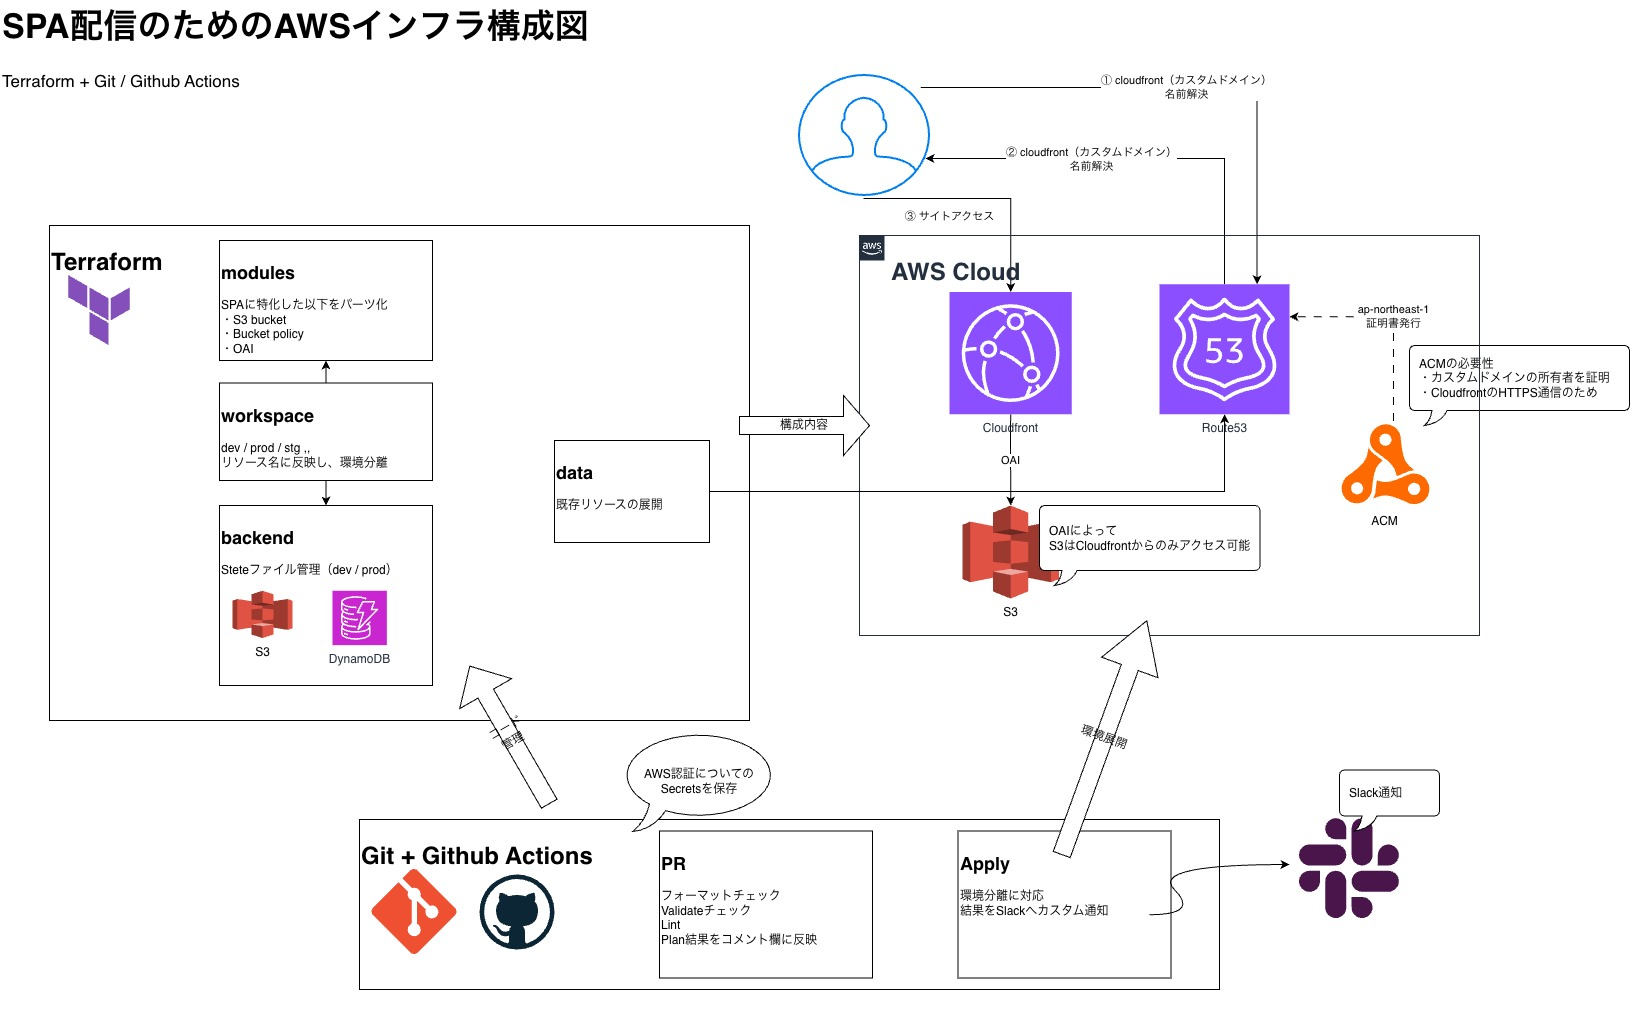
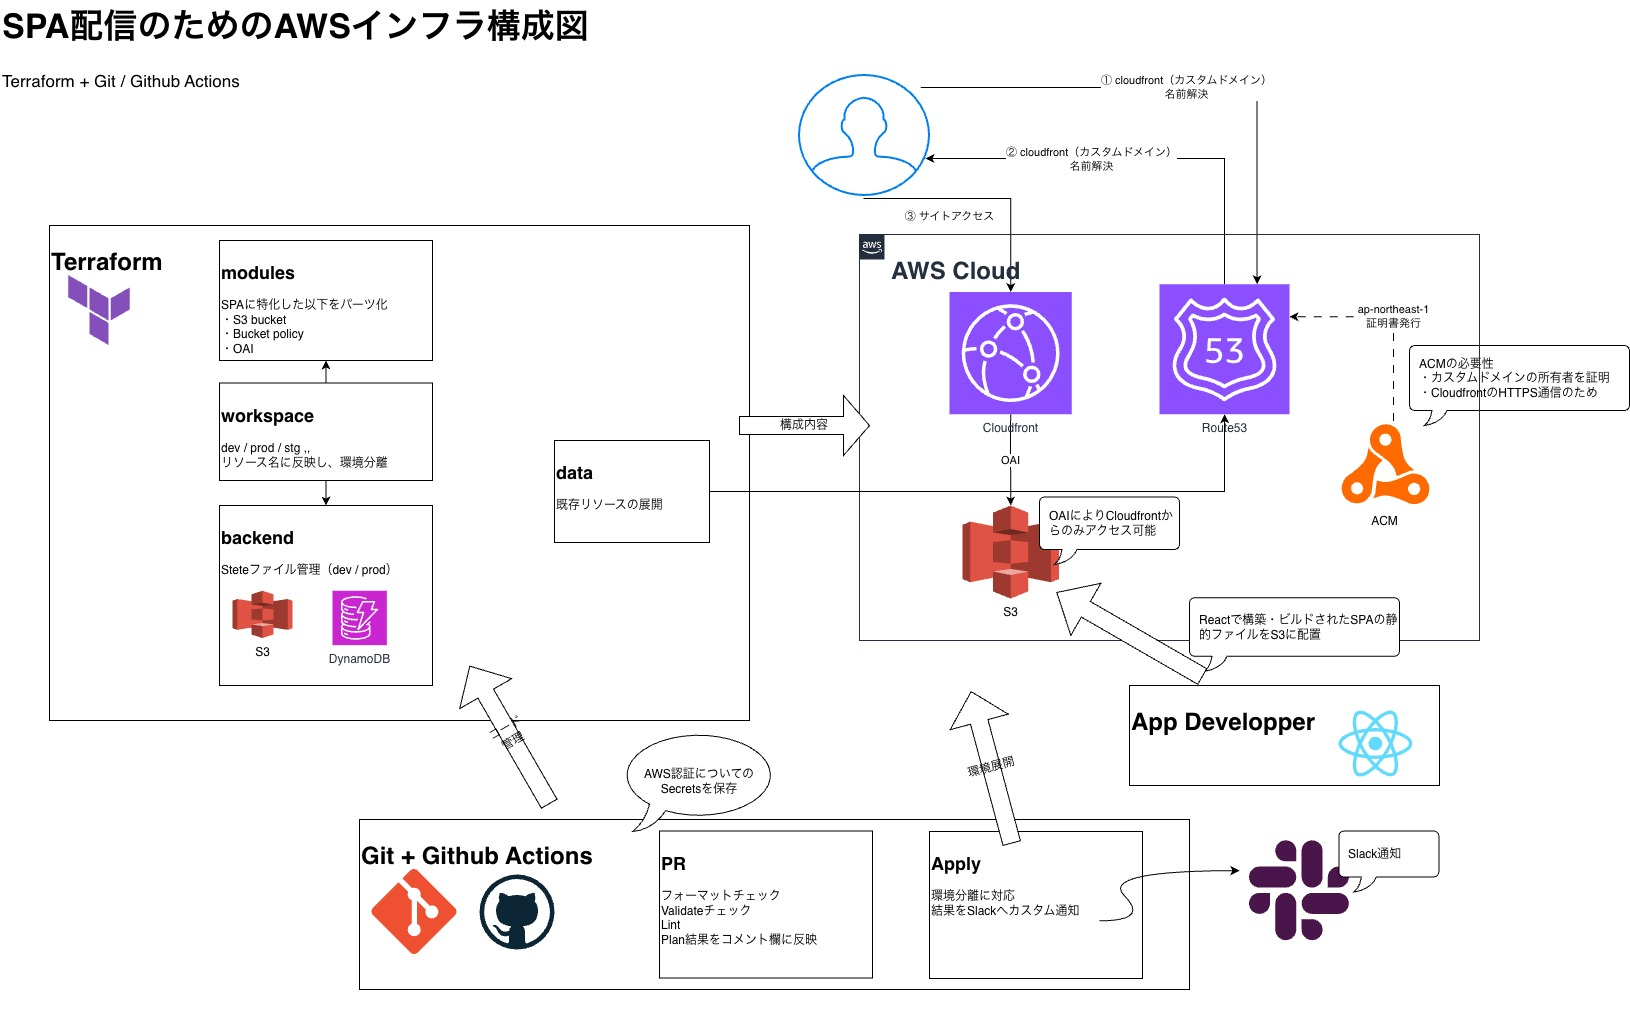
update

diff --git a/docs/projects/terraform-spasmall.md b/docs/projects/terraform-spasmall.md
@@ -4,7 +4,9 @@ layout: default
 
 # Terraform × CloudFront × S3 × SPA構成
 
-このプロジェクトは、Terraformで構築された CloudFront × S3 による静的SPAホスティング構成です。セキュアなOAI連携、環境分離、CI/CD連携を前提にした“語れる構成”であり、将来的な拡張にも耐えるベース設計となっています。
+このプロジェクトは、Terraformで構築された CloudFront × S3 による静的SPAホスティング構成です。  
+SPA配信という明確な目的に対して、技術者視点で設計された“要件定義ベースの構成図”であり、セキュアなOAI連携、環境分離、CI/CD連携を前提にした“語れる構成”です。  
+将来的な拡張にも耐えるベース設計として、ポートフォリオの中核を担う構成となっています。
 
 [← 前のページに戻る](/docs/aws-hands-on.html)
 
@@ -14,15 +16,19 @@ layout: default
 
 ![Terraform概要]({{ site.baseurl }}/images/SPA_simple_Structure.jpg)
 
+---
+
 ## 🧠 構成コンセプト
 
-この構成は「語れる構成」から「任せられる構成」へ進化するためのベースです。小粒ながら、以下のような思想が込められています：
+この構成は「語れる構成」から「任せられる構成」へ進化するためのベースです。  
+小粒ながら、以下のような思想が込められています：
 
 - ✅ **再利用可能なモジュール設計**（SPA/LP案件に対応）
 - ✅ **CloudFront × OAIによるセキュアな配信**
 - ✅ **Terraform Workspaceによる環境分離**
 - ✅ **S3 + DynamoDBによる状態管理（Backend）**
 - ✅ **Dataリソースによる疎結合な情報取得**
+- ✅ **App Developerとの連携を前提とした構成設計**
 
 ---
 
@@ -30,7 +36,7 @@ layout: default
 
 | 種類           | サービス                   | 語れる観点                           |
 | -------------- | -------------------------- | ------------------------------------ |
-| フロントエンド | AWS S3（静的ホスティング） | index.html指定でSPA対応              |
+| フロントエンド | AWS S3（静的ホスティング） | Reactで構築されたSPAの配置           |
 | CDN配信        | AWS CloudFront             | OAIによる限定公開、HTTPS配信         |
 | 認証制御       | Origin Access Identity     | S3へのアクセスをCloudFront経由に限定 |
 | 状態管理       | S3 + DynamoDB              | terraform backendでロック付き管理    |
@@ -68,6 +74,13 @@ layout: default
 
 ---
 
+## 🤝 App Developerとの連携
+
+この構成は、Reactで構築されたSPAをS3に配置する流れを前提としています。  
+GitHubへのPush → PR → CI/CD → Terraform Apply という一連の流れが構成図に反映されており、アプリ開発者との連携を意識した設計となっています。
+
+---
+
 ## 📌 補足
 
 - CloudFrontはREGIONALエンドポイントでHTTPS配信
@@ -86,6 +99,7 @@ layout: default
 - セキュリティ設計（OAI, バケットポリシー, IAM）
 - SPA構成への理解と最適化
 - CI/CD連携を見据えた構成設計
+- アプリ開発者との連携を前提とした設計思想
 
 ---
 
